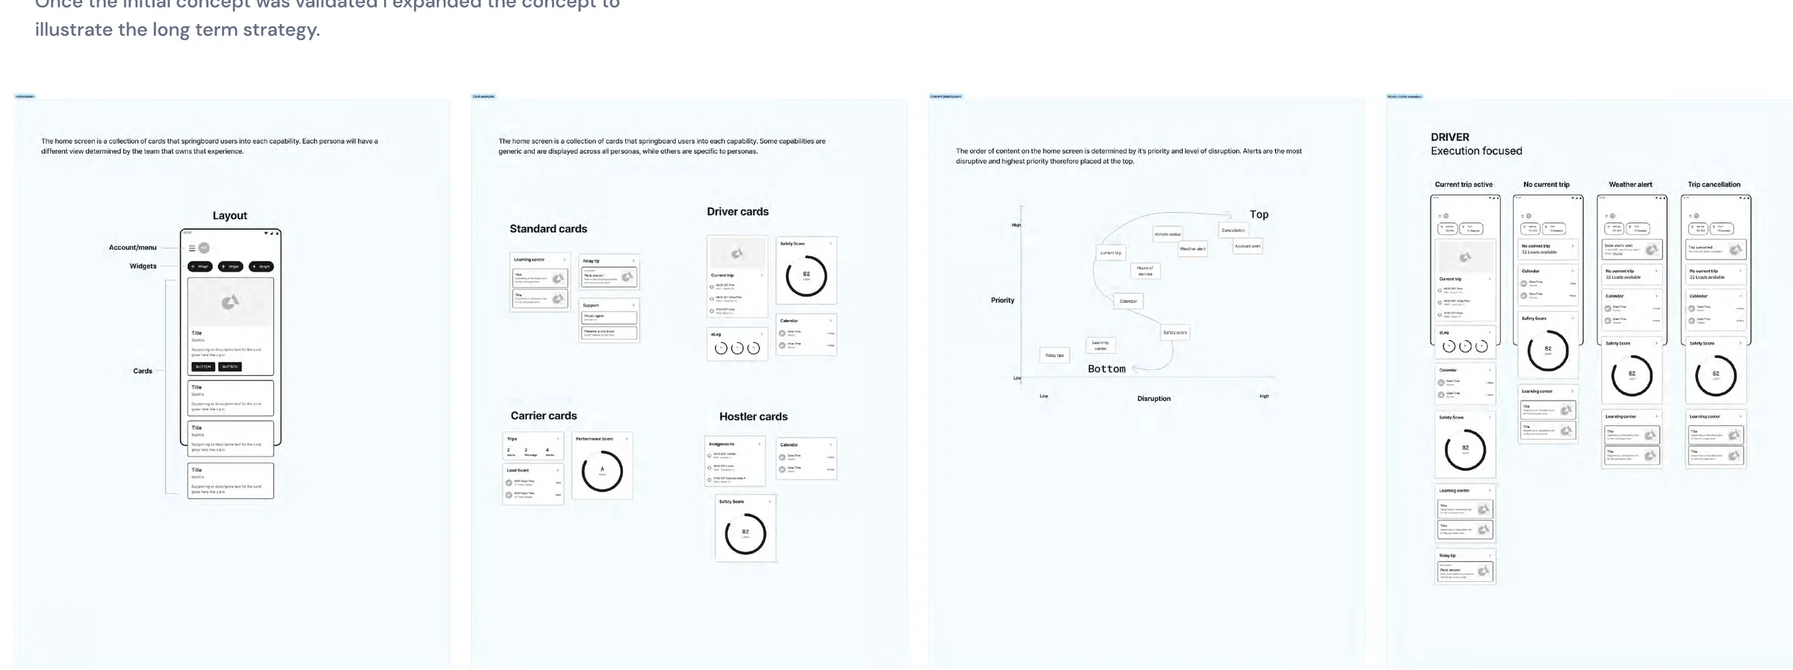
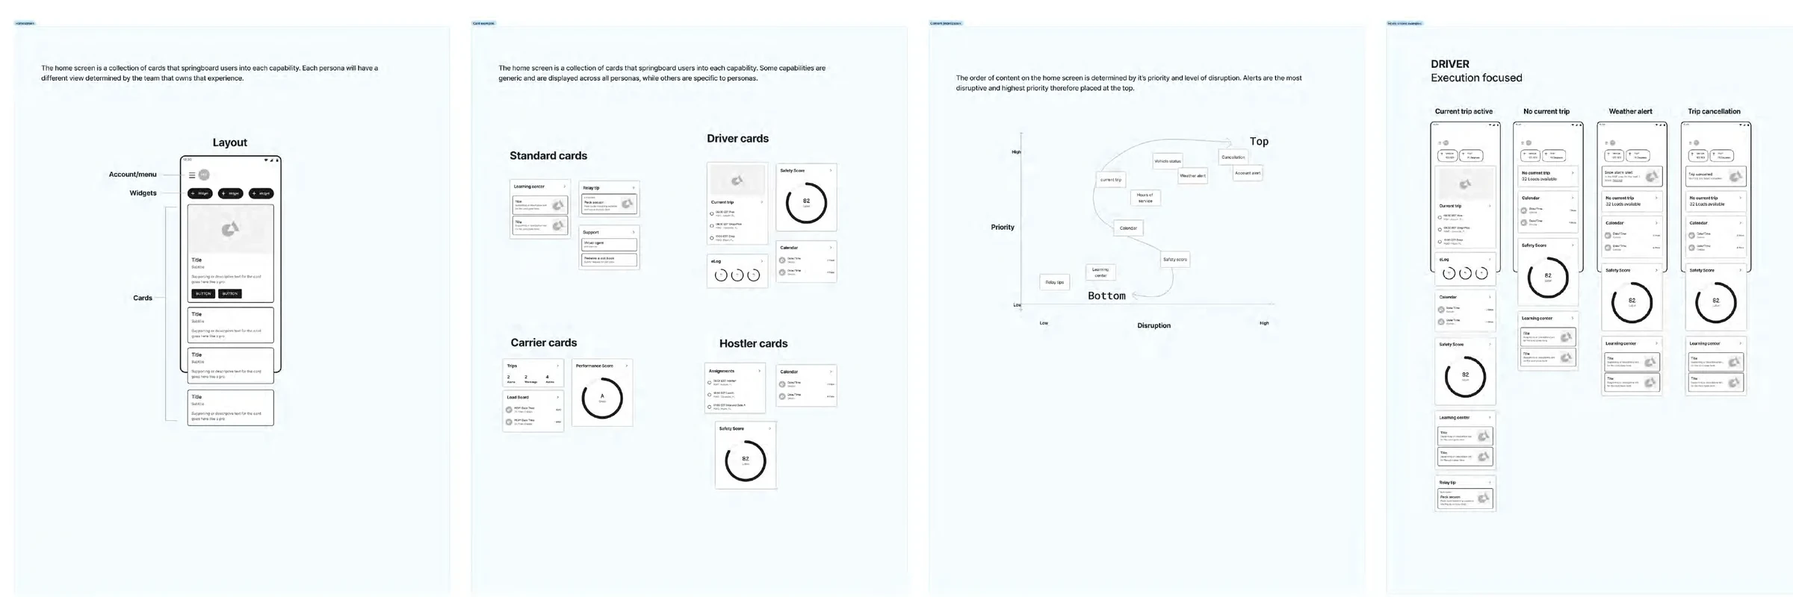
Case images: transparent backgrounds, consistent card styling
Key baked-in backgrounds out of diagrams, mockups and flows so the case
colour shows through; split photo and drawer composites into separate
tiles so each gets the standard card radius and shadow.

Claude-Session: https://claude.ai/code/session_01HAnvLrxAh4Wznvy4Cj8Sx4

diff --git a/src/styles/global.css b/src/styles/global.css
@@ -507,8 +507,11 @@ a.external::after {
 }
 .doc-pair { display: grid; grid-template-columns: 1fr 1fr; gap: clamp(14px, 3%, 32px); align-items: start; }
 .doc-pair > .doc + .doc { margin-top: 48px; }
+.visual .img-grid { display: grid; grid-template-columns: 1fr 1fr; gap: clamp(14px, 3%, 32px); align-items: start; }
+.visual .img-grid--3 { grid-template-columns: repeat(3, 1fr); }
 @media (max-width: 699px) {
   .doc-pair { grid-template-columns: 1fr; }
+  .visual .img-grid--3 { grid-template-columns: 1fr; }
   .doc-pair > .doc + .doc { margin-top: 0; }
 }
 /* Composed mockups carry their own frames and shadows. */

diff --git a/src/content/projects/01-amazon-relay.md b/src/content/projects/01-amazon-relay.md
@@ -59,7 +59,7 @@ The final screens look simple. A few structural decisions got them there.
 </ol>
 
 <figure class="visual visual--wide">
-<img src="/images/work/amazon-relay/before-after.webp" alt="Before: the old Relay trips screen with a map and a single Begin work button. After: the redesigned home screen, a weekly schedule, and the current stop screen." loading="lazy" />
+<img class="is-mockup" src="/images/work/amazon-relay/before-after.webp" alt="Before: the old Relay trips screen with a map and a single Begin work button. After: the redesigned home screen, a weekly schedule, and the current stop screen." loading="lazy" />
 <figcaption>Before and after: the old trips screen next to the new home screen, schedule and current stop.</figcaption>
 </figure>
 
@@ -86,7 +86,11 @@ What changed my thinking:
 - They didn’t want unrelated messages, but did want quick access to training.
 
 <figure class="visual visual--wide">
-<img src="/images/work/amazon-relay/field-study.jpg" alt="Three photos from the field study: a driver checking in at a shipping window with a phone and paperwork, a driver photographing a bill of lading in the cab, and a driver reviewing trip information at the wheel." loading="lazy" />
+<div class="img-grid img-grid--3">
+<img src="/images/work/amazon-relay/field-study-1.webp" alt="Field study photo: a driver checking in at a shipping window with a phone and paperwork." loading="lazy" />
+<img src="/images/work/amazon-relay/field-study-2.webp" alt="Field study photo: a driver photographing a bill of lading in the cab." loading="lazy" />
+<img src="/images/work/amazon-relay/field-study-3.webp" alt="Field study photo: a driver reviewing trip information at the wheel." loading="lazy" />
+</div>
 <figcaption>From the field study: checking in at a shipping window, capturing a bill of lading, and reviewing trip information in the cab.</figcaption>
 </figure>
 
@@ -103,7 +107,7 @@ Drivers think about information in three dimensions: before work, during work an
 With the senior software engineer, I mapped the existing experience end to end. From the trips card, drivers entered a linear sequence of uniquely named screens with overlapping content. Each had one action forward, or a back button out to the trips card and “Resume work”.
 
 <figure class="visual visual--wide">
-<img src="/images/work/amazon-relay/existing-design.webp" alt="Map of the existing Relay workflow: home, begin work, register vehicle, then a repeating drive and task sequence for each stop, with screenshots of the old screens below." loading="lazy" />
+<img class="is-mockup" src="/images/work/amazon-relay/existing-design.webp" alt="Map of the existing Relay workflow: home, begin work, register vehicle, then a repeating drive and task sequence for each stop, with screenshots of the old screens below." loading="lazy" />
 <figcaption>The existing experience, mapped with engineering: one fixed sequence of screens per stop.</figcaption>
 </figure>
 
@@ -128,7 +132,7 @@ A journey mapping session I facilitated aligned the team on two themes:
 An object mapping session then aligned us on drivers’ own nouns: a driver has a schedule, a schedule has trips, a trip has stops, and each stop has a location, a time and loads. The structure came from drivers’ language, not screens.
 
 <figure class="visual visual--wide">
-<img src="/images/work/amazon-relay/object-map.webp" alt="Object map: driver, schedule, trip, stop and load connected by has-one and has-many relationships, with vehicle, task, location, status and scheduled time." loading="lazy" />
+<img class="is-mockup" src="/images/work/amazon-relay/object-map.webp" alt="Object map: driver, schedule, trip, stop and load connected by has-one and has-many relationships, with vehicle, task, location, status and scheduled time." loading="lazy" />
 <figcaption>Object mapping: the nouns of a driver’s work and how they relate.</figcaption>
 </figure>
 
@@ -156,7 +160,7 @@ Extensibility mattered as much as feasibility.
 In a team brainstorm, we plotted ideas by user value against feasibility and extensibility, and chose one to explore.
 
 <figure class="visual visual--wide">
-<img src="/images/work/amazon-relay/brainstorm.webp" alt="Two charts plotting concept sketches by user value against feasibility and against extensibility, with the selected approach circled." loading="lazy" />
+<img class="is-mockup" src="/images/work/amazon-relay/brainstorm.webp" alt="Two charts plotting concept sketches by user value against feasibility and against extensibility, with the selected approach circled." loading="lazy" />
 <figcaption>Brainstorm concepts, plotted by user value against feasibility and extensibility.</figcaption>
 </figure>
 
@@ -171,7 +175,7 @@ The object map became the structure. Drivers used to see one trip at a time. Now
 Stop details holds the “all the time” information: what, where and when, pick-up and drop-off, load IDs, contacts and requirements such as safety equipment. The first release matched the existing trips experience, with room for carrier details and programs like Global Mile and Amazon Freight.
 
 <figure class="visual visual--inline">
-<img src="/images/work/amazon-relay/stop-details-vision.webp" alt="Stop details wireframes for a driver and a carrier, organized by what, where and when, with a sticky task and carrier-specific sections." loading="lazy" />
+<img class="is-mockup" src="/images/work/amazon-relay/stop-details-vision.webp" alt="Stop details wireframes for a driver and a carrier, organized by what, where and when, with a sticky task and carrier-specific sections." loading="lazy" />
 <figcaption>Stop details for a driver and a carrier: the same structure, with persona-specific content.</figcaption>
 </figure>
 
@@ -192,19 +196,19 @@ The home screen became a curated set of cards: the current task first, then past
 Account and menu, a row of widgets, then cards, some shared and some per persona. Each persona’s team decides its cards, so one framework shows a driver their current trip and a carrier their load board.
 
 <figure class="visual visual--wide">
-<img src="/images/work/amazon-relay/persona-cards.webp" alt="Card sets grouped by persona: standard cards such as learning center, Relay tips and support; driver cards such as current trip, safety score, calendar and eLog; carrier cards such as trips, load board and performance score; and hostler cards such as assignments, calendar and safety score." loading="lazy" />
+<img class="is-mockup" src="/images/work/amazon-relay/persona-cards.webp" alt="Card sets grouped by persona: standard cards such as learning center, Relay tips and support; driver cards such as current trip, safety score, calendar and eLog; carrier cards such as trips, load board and performance score; and hostler cards such as assignments, calendar and safety score." loading="lazy" />
 <figcaption>Persona-based cards: standard cards for everyone, plus driver, carrier and hostler cards.</figcaption>
 </figure>
 
 Instead of reshuffling, content is ordered by priority and disruption, with alerts at the top.
 
 <figure class="visual visual--wide">
-<img src="/images/work/amazon-relay/priority-disruption.webp" alt="Chart plotting home screen content by priority against disruption: cancellations and account alerts at the top, then weather alert, vehicle status, current trip, hours of service, calendar, safety score, learning center and Relay tips toward the bottom." loading="lazy" />
+<img class="is-mockup" src="/images/work/amazon-relay/priority-disruption.webp" alt="Chart plotting home screen content by priority against disruption: cancellations and account alerts at the top, then weather alert, vehicle status, current trip, hours of service, calendar, safety score, learning center and Relay tips toward the bottom." loading="lazy" />
 <figcaption>Content order by priority and disruption, from alerts at the top to tips at the bottom.</figcaption>
 </figure>
 
 <figure class="visual visual--full">
-<img src="/images/work/amazon-relay/home-variations.webp" alt="Wireframe variations of the home screen for a driver (current trip active, no current trip, weather alert, trip cancellation), a carrier, and an owner-operator who switches between both." loading="lazy" />
+<img class="is-mockup" src="/images/work/amazon-relay/home-variations.webp" alt="Wireframe variations of the home screen for a driver (current trip active, no current trip, weather alert, trip cancellation), a carrier, and an owner-operator who switches between both." loading="lazy" />
 <figcaption>One home screen framework, different views: driver, carrier, and an owner-operator switching between them.</figcaption>
 </figure>
 
@@ -219,12 +223,12 @@ The first release changed the structure around the workflow, not the workflow it
 Drivers had to keep their pace, feedback on the existing app was good, and engineering was two people. So the first release made the smallest change that bought flexibility. The new home screen, schedule and current stop sit in front of the old workflow, “Continue load” hands drivers into screens they know, and they can get back to their information at any point.
 
 <figure class="visual visual--wide">
-<img src="/images/work/amazon-relay/mvp-flow.webp" alt="Three flow diagrams side by side: the existing linear flow, the MVP flow with new home, schedule and stop details screens, and the future flow." loading="lazy" />
+<img class="is-mockup" src="/images/work/amazon-relay/mvp-flow.webp" alt="Three flow diagrams side by side: the existing linear flow, the MVP flow with new home, schedule and stop details screens, and the future flow." loading="lazy" />
 <figcaption>Existing, MVP and future flows. New screens are marked in blue; the MVP keeps the execution steps intact.</figcaption>
 </figure>
 
 <figure class="visual visual--wide">
-<img src="/images/work/amazon-relay/current-stop-handoff.webp" alt="The new current stop screen, with its Continue load button connected by arrows to the four screens of the existing execution workflow." loading="lazy" />
+<img class="is-mockup" src="/images/work/amazon-relay/current-stop-handoff.webp" alt="The new current stop screen, with its Continue load button connected by arrows to the four screens of the existing execution workflow." loading="lazy" />
 <figcaption>The current stop hands off to the existing execution workflow, so the first release kept full parity.</figcaption>
 </figure>
 
@@ -235,7 +239,7 @@ In testing with 8 drivers, all valued the extra content, statuses and weather, a
 So I brought back familiar patterns, a “start” button and the word “Trips”, then moved the screens into Meridian’s visual language.
 
 <figure class="visual visual--inline">
-<img src="/images/work/amazon-relay/home-states.webp" alt="Two home screen states for a driver named Taylor: in the yard waiting for a load, and in transit, each with the current stop, arrival times, a Resume work button and the driver’s schedule." loading="lazy" />
+<img class="is-mockup" src="/images/work/amazon-relay/home-states.webp" alt="Two home screen states for a driver named Taylor: in the yard waiting for a load, and in transit, each with the current stop, arrival times, a Resume work button and the driver’s schedule." loading="lazy" />
 <figcaption>Home screen states: the current stop card shows whether the driver is in the yard or in transit.</figcaption>
 </figure>
 
@@ -248,14 +252,14 @@ Drivers should always know where they are in their work, wherever they are in th
 The long-term strategy added “sticky” tasks. Tasks used to take over the app. In the vision, a task sticks to the bottom of any non-modal screen and expands when needed, so drivers always see their load and step while reaching anything else.
 
 <figure class="visual visual--inline">
-<img src="/images/work/amazon-relay/sticky-task.webp" alt="Layout wireframe with a sticky task at the bottom of the screen, showing task instructions, context and an action, on any non-modal screen: home, trip, schedule and stop details." loading="lazy" />
+<img class="is-mockup" src="/images/work/amazon-relay/sticky-task.webp" alt="Layout wireframe with a sticky task at the bottom of the screen, showing task instructions, context and an action, on any non-modal screen: home, trip, schedule and stop details." loading="lazy" />
 <figcaption>The sticky task sits at the bottom of any non-modal screen.</figcaption>
 </figure>
 
 One task anatomy (stop, instructions, action, link to stop details) covers a shipper warehouse, an Amazon warehouse or a post office.
 
 <figure class="visual visual--wide">
-<img src="/images/work/amazon-relay/task-workflows.webp" alt="Three workflows built from sticky tasks: a third-party shipper warehouse, an Amazon warehouse and a post office, each a sequence of task cards from driving to the site to checking out." loading="lazy" />
+<img class="is-mockup" src="/images/work/amazon-relay/task-workflows.webp" alt="Three workflows built from sticky tasks: a third-party shipper warehouse, an Amazon warehouse and a post office, each a sequence of task cards from driving to the site to checking out." loading="lazy" />
 <figcaption>Workflow examples: a third-party shipper warehouse, an Amazon warehouse and a post office.</figcaption>
 </figure>
 

diff --git a/src/content/projects/05-spokgo.md b/src/content/projects/05-spokgo.md
@@ -62,7 +62,7 @@ Hospitals already had ways to communicate: directories, paging portals, phones a
 I shadowed a hospitalist, a bedside nurse and a respiratory therapist across two hospitals to understand their workflows, motivations, pain points and opportunities. Then I mapped the bedside nurse’s day.
 
 <figure class="visual visual--wide">
-<img src="/images/work/spokgo/journey-map.webp" alt="Journey map of a bedside nurse providing patient care throughout the day, with stages from commute and start of shift through patient assessments, contacting a provider, waiting by the phone and receiving a call back, and rows for tasks, tools and touchpoints, and how the nurse felt at each stage." loading="lazy" />
+<img class="is-mockup" src="/images/work/spokgo/journey-map.webp" alt="Journey map of a bedside nurse providing patient care throughout the day, with stages from commute and start of shift through patient assessments, contacting a provider, waiting by the phone and receiving a call back, and rows for tasks, tools and touchpoints, and how the nurse felt at each stage." loading="lazy" />
 <figcaption>Journey map of the bedside nurse’s day.</figcaption>
 </figure>
 
@@ -116,7 +116,12 @@ Prioritize speed to market and extensibility.
 I held a series of brainstorming sessions with stakeholders to co-create and sketch as many ideas as possible. From them, we narrowed down the core set of features needed for seamless communication workflows.
 
 <figure class="visual visual--wide">
-<img src="/images/work/spokgo/brainstorm.webp" alt="Four photos of brainstorming sessions: whiteboards covered in flows, sticky notes and screen sketches for directory, on-call, messages, patients and tasks." loading="lazy" />
+<div class="img-grid">
+<img src="/images/work/spokgo/brainstorm-1.webp" alt="Brainstorming session 1 of 4: whiteboard with flows, sticky notes and screen sketches." loading="lazy" />
+<img src="/images/work/spokgo/brainstorm-2.webp" alt="Brainstorming session 2 of 4: whiteboard with flows, sticky notes and screen sketches." loading="lazy" />
+<img src="/images/work/spokgo/brainstorm-3.webp" alt="Brainstorming session 3 of 4: whiteboard with flows, sticky notes and screen sketches." loading="lazy" />
+<img src="/images/work/spokgo/brainstorm-4.webp" alt="Brainstorming session 4 of 4: whiteboard with flows, sticky notes and screen sketches." loading="lazy" />
+</div>
 <figcaption>Brainstorming with stakeholders.</figcaption>
 </figure>
 
@@ -140,24 +145,24 @@ Bring the care team, the conversation and the work together.
 Patient centric communication lets care team members see all the relevant information about a patient. They can coordinate care and move the patient along their care journey more quickly, without switching between several tools.
 
 <figure class="visual visual--wide">
-<img src="/images/work/spokgo/patient-centric.webp" alt="Wireframe flow for patient centric communication: my patients, a patient's details, patient activity, patient tasks, the care team and patient information." loading="lazy" />
+<img class="is-mockup" src="/images/work/spokgo/patient-centric.webp" alt="Wireframe flow for patient centric communication: my patients, a patient's details, patient activity, patient tasks, the care team and patient information." loading="lazy" />
 <figcaption>Patient centric communication.</figcaption>
 </figure>
 
 The map also covered the enterprise directory and on-call schedules, core messaging, and tasks.
 
 <figure class="visual visual--wide">
-<img src="/images/work/spokgo/directory-on-call.webp" alt="Wireframe flow for the enterprise directory and on-call: the directory, search, a person's profile, on-call schedules and services, linked back to starting a message." loading="lazy" />
+<img class="is-mockup" src="/images/work/spokgo/directory-on-call.webp" alt="Wireframe flow for the enterprise directory and on-call: the directory, search, a person's profile, on-call schedules and services, linked back to starting a message." loading="lazy" />
 <figcaption>Enterprise directory and on-call.</figcaption>
 </figure>
 
 <figure class="visual visual--wide">
-<img src="/images/work/spokgo/core-messaging.webp" alt="Wireframe flows for core messaging: the inbox, one-to-one threads, voice and group threads, with screens for composing, attachments and call options." loading="lazy" />
+<img class="is-mockup" src="/images/work/spokgo/core-messaging.webp" alt="Wireframe flows for core messaging: the inbox, one-to-one threads, voice and group threads, with screens for composing, attachments and call options." loading="lazy" />
 <figcaption>Core messaging.</figcaption>
 </figure>
 
 <figure class="visual visual--wide">
-<img src="/images/work/spokgo/tasks.webp" alt="Wireframe flow for tasks: a task list, an accepted task and a closed task." loading="lazy" />
+<img class="is-mockup" src="/images/work/spokgo/tasks.webp" alt="Wireframe flow for tasks: a task list, an accepted task and a closed task." loading="lazy" />
 <figcaption>Tasks.</figcaption>
 </figure>
 
@@ -168,6 +173,6 @@ A clear direction, a roadmap, and a launch.
 The initiative helped drive organizational alignment across teams and clarified the roadmap for the year. It served as a runway for a series of sprints that ultimately resulted in a successful GA launch of SpokGo.
 
 <figure class="visual visual--wide">
-<img src="/images/work/spokgo/final-mockups.webp" alt="Three final SpokGo screens: a critical care team chat about a patient's vitals, a nurse call from a patient's bathroom with patient details and call actions, and a respiratory consult with the department, specialties and who is currently in the role." loading="lazy" />
+<img class="is-mockup" src="/images/work/spokgo/final-mockups.webp" alt="Three final SpokGo screens: a critical care team chat about a patient's vitals, a nurse call from a patient's bathroom with patient details and call actions, and a respiratory consult with the department, specialties and who is currently in the role." loading="lazy" />
 <figcaption>Final mockups, by a visual designer on the team.</figcaption>
 </figure>

diff --git a/src/content/projects/03-zenni-order-tracking.md b/src/content/projects/03-zenni-order-tracking.md
@@ -96,7 +96,7 @@ Once an order shipped, customers were sent away to a carrier tracking page. It c
 The emails, the account status and what was actually happening didn’t line up. Working directly with the customer service team, we mapped a common scenario: on day 6, the glasses are in a bulk shipment from the lab to the US, the account says “Manufactured/en Route to Distribution Center”, and no email goes out at all. The customer is thinking “Why haven’t they shipped yet?”, and that is the common point for contacting support.
 
 <figure class="visual visual--wide">
-<img src="/images/work/zenni-order-tracking/expectation-gap.webp" alt="Day 6 is when customers call. A timeline from day 0 to day 13 compares what is happening, what Track My Order says, the email sent and what the customer thinks. Day 6 is highlighted: the glasses are in a bulk shipment to the US facility, Track My Order says Manufactured/en Route to Distribution Center, no email goes out, and the customer thinks: why haven't they shipped yet? That is where Where is my order calls come in." loading="lazy" />
+<img class="is-mockup" src="/images/work/zenni-order-tracking/expectation-gap.webp" alt="Day 6 is when customers call. A timeline from day 0 to day 13 compares what is happening, what Track My Order says, the email sent and what the customer thinks. Day 6 is highlighted: the glasses are in a bulk shipment to the US facility, Track My Order says Manufactured/en Route to Distribution Center, no email goes out, and the customer thinks: why haven't they shipped yet? That is where Where is my order calls come in." loading="lazy" />
 <figcaption>The expectation gap, mapped with customer service. Day 6 is when “Where is my order?” calls come in.</figcaption>
 </figure>
 
@@ -178,14 +178,17 @@ The step customers call about, explained in context.
 A “Where is my Order?” card sits beside the items and changes with the current milestone. En route to the US facility receives the most customer service calls, so that step says it outright: “Your glasses are in a bulk shipment from our lab to our US facility. We’ll post an update the moment it arrives stateside!” The aim was to make the tracking gap feel expected, not alarming, while keeping the excitement of a new pair.
 
 <figure class="visual visual--wide">
-<img src="/images/work/zenni-order-tracking/where-is-my-order-widget.webp" alt="Two Where is My Order cards. En-route to US Facility: Your package is on the move, explaining the bulk shipment, with a More Details button. Shipped: Your new specs are on their way, with a Track Shipment button and a USPS tracking number." loading="lazy" />
+<img class="is-mockup" src="/images/work/zenni-order-tracking/where-is-my-order-widget.webp" alt="Two Where is My Order cards. En-route to US Facility: Your package is on the move, explaining the bulk shipment, with a More Details button. Shipped: Your new specs are on their way, with a Track Shipment button and a USPS tracking number." loading="lazy" />
 <figcaption>The Where is my Order card for the en-route and shipped steps.</figcaption>
 </figure>
 
 The card opens a details drawer for the current step. During manufacturing, it shows production events such as lens processing, frame assembly and final quality assurance, with where and when they happened. Once shipped, every carrier event appears inside the account page instead of on another site, and the estimated delivery becomes a specific day. The tracking number still links to the carrier for anyone who wants more.
 
 <figure class="visual visual--wide">
-<img src="/images/work/zenni-order-tracking/detail-drawers.webp" alt="Two details drawers. Manufacturing: a photo of a lab technician fitting lenses, then latest updates for final quality assurance, frame assembly and lens processing. Shipped: estimated delivery Tuesday, January 13, a carrier tracker at Out for Delivery, and the latest carrier updates." loading="lazy" />
+<div class="img-grid">
+<img src="/images/work/zenni-order-tracking/drawer-manufacturing.webp" alt="Manufacturing details drawer: a photo of a lab technician fitting lenses, then latest updates for final quality assurance, frame assembly and lens processing." loading="lazy" />
+<img src="/images/work/zenni-order-tracking/drawer-shipped.webp" alt="Shipped details drawer: estimated delivery Tuesday, January 13, a carrier tracker at Out for Delivery, and the latest carrier updates." loading="lazy" />
+</div>
 <figcaption>The details drawer during manufacturing and after shipping. Tracking number hidden.</figcaption>
 </figure>
 

diff --git a/src/content/projects/02-zenni-account.md b/src/content/projects/02-zenni-account.md
@@ -116,7 +116,7 @@ One navigation, grouped the way customers think.
 The new navigation panel groups Account into Account, Rewards, Settings, and Help and Support. On desktop it is visible on every Account page, so customers always know where they are and can move between orders, prescriptions and settings without starting over. Shared Images was hidden from the interface.
 
 <figure class="visual visual--wide">
-<img src="/images/work/zenni-account/navigation-ia.svg" alt="Two lists side by side. Before: My Account, Zenni Rewards, Order Management and Personalization groups, with TryOn, Shared Images and Vision Test, then loose links. After: Account, Rewards, Settings, and Help and Support groups." loading="lazy" />
+<img class="is-mockup" src="/images/work/zenni-account/navigation-ia.svg" alt="Two lists side by side. Before: My Account, Zenni Rewards, Order Management and Personalization groups, with TryOn, Shared Images and Vision Test, then loose links. After: Account, Rewards, Settings, and Help and Support groups." loading="lazy" />
 <figcaption>Account navigation before and after the redesign.</figcaption>
 </figure>
 
@@ -146,7 +146,7 @@ A useful foundation does not predict every future feature. It gives future teams
 Orders answer the most questions, so they got the most structure. I started with a low-fidelity order history in which each order is a card and each item opens an item details panel, so customers can check status, track a shipment, buy again or start a return without losing their place.
 
 <figure class="visual visual--wide">
-<img src="/images/work/zenni-account/wireframe-order-history.webp" alt="Low-fidelity wireframe: an order history with order cards grouped by estimated delivery date, each item with its status, and an item details drawer with Buy it again, Get help with this item, Start a return and Print return label." loading="lazy" />
+<img class="is-mockup" src="/images/work/zenni-account/wireframe-order-history.webp" alt="Low-fidelity wireframe: an order history with order cards grouped by estimated delivery date, each item with its status, and an item details drawer with Buy it again, Get help with this item, Start a return and Print return label." loading="lazy" />
 <figcaption>An early wireframe of order history and the item details panel, November 2024.</figcaption>
 </figure>
 

diff --git a/src/content/projects/01-amazon-relay-load-board.md b/src/content/projects/01-amazon-relay-load-board.md
@@ -246,7 +246,7 @@ Testing did not simply validate the concept. It sharpened terminology, time-zone
 The design then moved through internal review, carrier UAT, beta testing, and staged production dial-up so the interaction model could be evaluated with real data, real latency, and different carrier cohorts.
 
 <figure class="visual visual--wide">
-<img src="/images/work/amazon-relay-load-board/placeholder-validation-ladder.svg" alt="Six steps of validation: research, high-fidelity usability testing with five experienced carriers, design system review, carrier UAT, beta with real data, and a staged rollout that paused at 50% in the US before reaching 100% in the US, EU and Canada." loading="lazy" />
+<img class="is-mockup" src="/images/work/amazon-relay-load-board/placeholder-validation-ladder.svg" alt="Six steps of validation: research, high-fidelity usability testing with five experienced carriers, design system review, carrier UAT, beta with real data, and a staged rollout that paused at 50% in the US before reaching 100% in the US, EU and Canada." loading="lazy" />
 <figcaption>The scrutiny before full launch, from research and usability testing through design review, carrier UAT and beta to a staged rollout.</figcaption>
 </figure>
 
